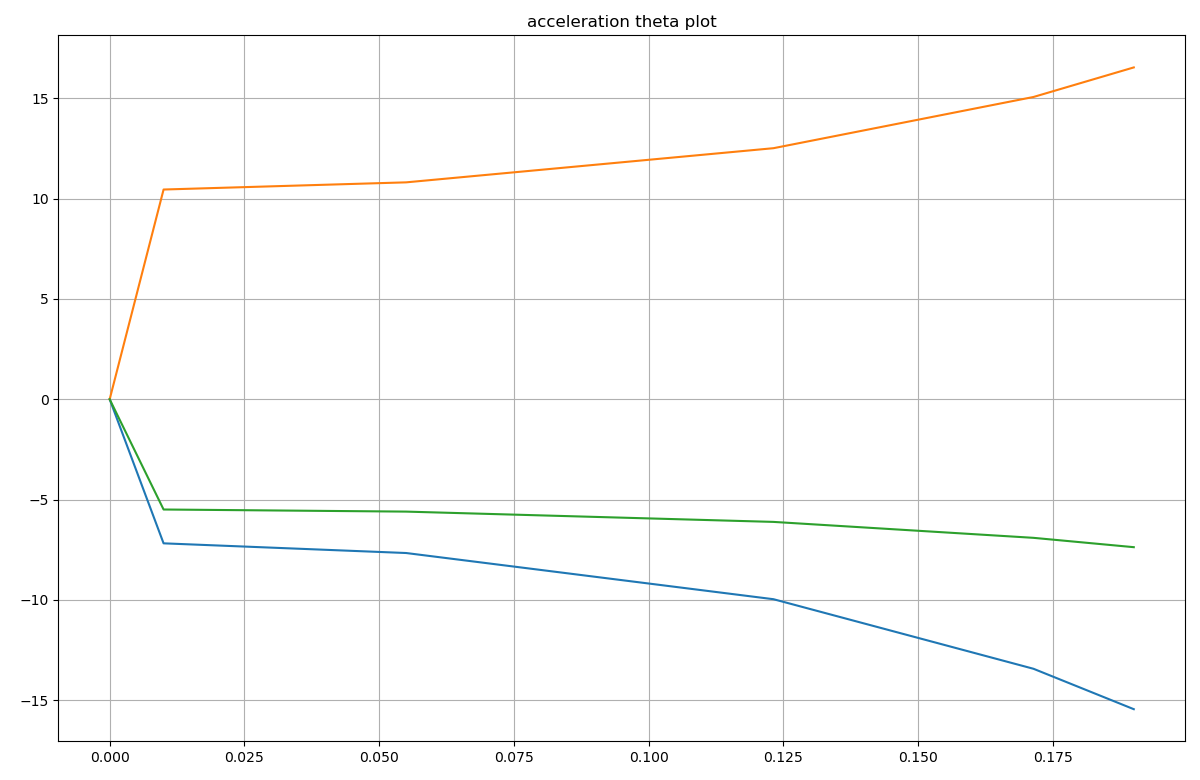
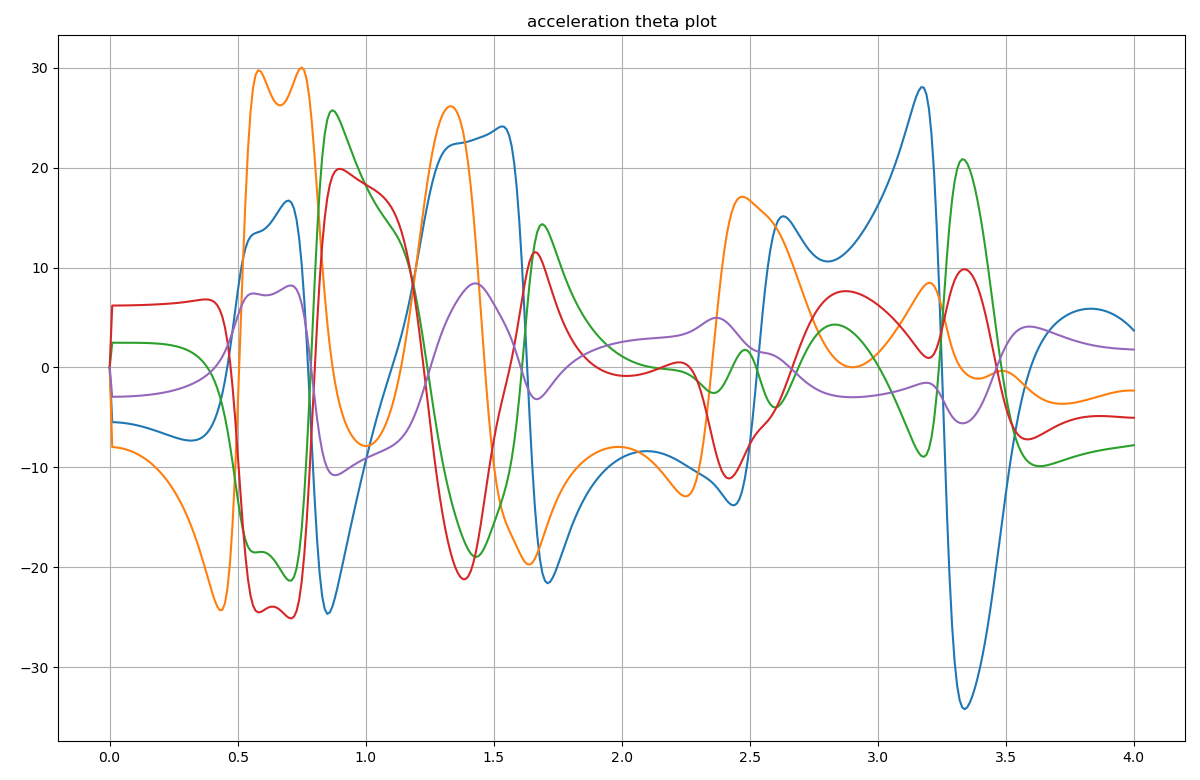
Tree dynamics - seemingly working

diff --git a/src/Tree_forward_dynamics.cpp b/src/Tree_forward_dynamics.cpp
@@ -35,9 +35,7 @@ void SystemOfBodies::EOM__forward_tree(const std::vector<double> &y,
   for (int k = n - 1; k > -1; --k) {
 
     p.body_velocities[k] =
-        spatial_operator_dt[bodies[k]->parent_ID - terminal_bodies]
-                           [get_child_index(k)]
-                               .t() *
+        spatial_operator_dt[bodies[k]->parent_ID - 1][get_child_index(k)].t() *
             p.body_velocities[bodies[k]->parent_ID - 1] +
         bodies[k]->transpose_hinge_map * p.theta_dot[k];
   }
@@ -66,10 +64,9 @@ void SystemOfBodies::EOM__forward_tree(const std::vector<double> &y,
 
   for (int k = n - 1; k > -1; --k) {
 
-    p.accel_plus[k] = spatial_operator_dt[bodies[k]->parent_ID -
-                                          terminal_bodies][get_child_index(k)]
-                          .t() *
-                      p.accel[bodies[k]->parent_ID - 1];
+    p.accel_plus[k] =
+        spatial_operator_dt[bodies[k]->parent_ID - 1][get_child_index(k)].t() *
+        p.accel[bodies[k]->parent_ID - 1];
     p.theta_ddot[k] = p.frac_v[k] - p.G_fractal[k].t() * p.accel_plus[k];
     p.accel[k] = p.accel_plus[k] +
                  bodies[k]->transpose_hinge_map * p.theta_ddot[k] +
@@ -171,18 +168,32 @@ std::vector<std::vector<arma::vec6>>
 SystemOfBodies::find_spatial_operator_input_vector_tree(
     const std::vector<arma::vec> &state) const {
 
-  std::vector<std::vector<arma::vec6>> return_vector(n - terminal_bodies);
+  std::vector<std::vector<arma::vec6>> return_vector(n + 1);
+
+  return_vector[n].resize(1);
+
+  arma::vec6 base =
+      bodies[n - 1]->hinge_map.t() * state[n - 1] + bodies[n - 1]->hinge_pos;
+
+  return_vector[n][0] = base - bodies[n - 1]->out_hinge_tree[0];
 
   // uses the modified theta
-  for (int i = terminal_bodies; i < n; ++i) {
-    size_t num_out = bodies[i]->out_hinge_tree.size();
-    return_vector[i - terminal_bodies].resize(num_out);
+  for (size_t i = n - 1; i > 0; --i) {
 
-    arma::vec6 base =
-        bodies[i]->hinge_map.t() * state[i] + bodies[i]->hinge_pos;
-    for (int j = 0; j < num_out; ++j) {
-      return_vector[i - terminal_bodies][j] =
-          base - bodies[i]->out_hinge_tree[j];
+    if (bodies[i]->children_ID[0] == 0) {
+      continue;
+    }
+    size_t num_out = bodies[i]->children_ID.size();
+    return_vector[i].resize(num_out);
+
+    for (int j = 0; j < bodies[i]->children_ID.size(); ++j) {
+
+      arma::vec6 base = bodies[bodies[i]->children_ID[j] - 1]->hinge_map.t() *
+                            state[bodies[i]->children_ID[j] - 1] +
+                        bodies[bodies[i]->children_ID[j] - 1]->hinge_pos;
+
+      return_vector[bodies[i]->body_ID - 1][j] =
+          base - bodies[i]->out_hinge_tree[0]; // hardcoded a little bit...
     }
   }
   return return_vector;
@@ -194,27 +205,21 @@ SystemOfBodies::find_spatial_operator_tree(
 
   std::vector<std::vector<arma::vec6>> rigid_body_transform_vector =
       find_spatial_operator_input_vector_tree(state);
-  const arma::mat::fixed<6, 6> I = arma::eye(6, 6);
+
   std::vector<std::vector<arma::mat::fixed<6, 6>>> spatial_operator(
-      n + 2 - terminal_bodies);
+      rigid_body_transform_vector.size());
 
-  spatial_operator.resize(n + 2 - terminal_bodies);
-  spatial_operator[0].resize(1);
-  spatial_operator[n + 1 - terminal_bodies].resize(1);
-  spatial_operator[0][0] = I;
-  spatial_operator[n + 1 - terminal_bodies][0] = I;
+  for (int i = 0; i < rigid_body_transform_vector.size(); ++i) {
+    if (rigid_body_transform_vector[i].size() == 0) {
+      continue;
+    }
+    spatial_operator[i].resize(rigid_body_transform_vector[i].size());
 
-  for (int i = 1; i < n + 1 - terminal_bodies; ++i) {
-    const size_t num_out =
-        bodies[i - 1 + terminal_bodies]->out_hinge_tree.size();
-    spatial_operator[i].resize(num_out);
-
-    for (int j = 0; j < num_out; ++j) {
+    for (int j = 0; j < rigid_body_transform_vector[i].size(); ++j) {
       {
-
         spatial_operator[i][j] =
-            rb_transform(rigid_body_transform_vector[i - 1][j].rows(0, 2),
-                         rigid_body_transform_vector[i - 1][j].rows(3, 5));
+            rb_transform(rigid_body_transform_vector[i][j].rows(0, 2),
+                         rigid_body_transform_vector[i][j].rows(3, 5));
       }
     }
   }
@@ -248,17 +253,19 @@ void SystemOfBodies::compute_J_fractal(
         p.P[k] * coriolis_vector(bodies[k]->transpose_hinge_map,
                                  p.body_velocities[k], p.theta_dot[k]) +
         gyroscopic_force_z(bodies[k]->inertial_matrix, p.body_velocities[k]);
+
   } else if (bodies[k]->children_ID.size() == 1) {
     p.J_fractal[k] =
-        spatial_operator_dt[bodies[k]->children_ID[0]][0] *
+        spatial_operator_dt[k][0] *
             p.J_fractal_plus[bodies[k]->children_ID[0]] +
         p.P[k] * coriolis_vector(bodies[k]->transpose_hinge_map,
                                  p.body_velocities[k], p.theta_dot[k]) +
         gyroscopic_force_z(bodies[k]->inertial_matrix, p.body_velocities[k]);
   } else {
+
     p.J_fractal[k] = arma::zeros<arma::vec>(6);
     for (size_t i = 0; i < bodies[k]->children_ID.size(); ++i) {
-      p.J_fractal[k] += spatial_operator_dt[bodies[k]->children_ID[1]][i] *
+      p.J_fractal[k] += spatial_operator_dt[k][i] *
                         p.J_fractal_plus[bodies[k]->children_ID[i]];
     }
     p.J_fractal[k] +=
@@ -276,16 +283,15 @@ void SystemOfBodies::compute_p(
   if (bodies[k]->children_ID[0] == 0) {
     p.P[k] = bodies[k]->inertial_matrix;
   } else if (bodies[k]->children_ID.size() == 1) {
-    p.P[k] = spatial_operator_dt[bodies[k]->children_ID[0]][0] *
-                 p.P_plus[bodies[k]->children_ID[0]] *
-                 spatial_operator_dt[bodies[k]->children_ID[0]][0].t() +
+    p.P[k] = spatial_operator_dt[k][0] * p.P_plus[bodies[k]->children_ID[0]] *
+                 spatial_operator_dt[k][0].t() +
              bodies[k]->inertial_matrix;
   } else {
     p.P[k] = arma::zeros<arma::mat>(6, 6);
     for (int i = 0; i < bodies[k]->children_ID.size(); ++i) {
-      p.P[k] += spatial_operator_dt[bodies[k]->children_ID[1]][i] *
+      p.P[k] += spatial_operator_dt[k][i] *
                 p.P_plus[bodies[k]->children_ID[i]] *
-                spatial_operator_dt[bodies[k]->children_ID[1]][i].t();
+                spatial_operator_dt[k][i].t();
     }
     p.P[k] += bodies[k]->inertial_matrix;
   }

diff --git a/src/system_of_bodies.h b/src/system_of_bodies.h
@@ -17,7 +17,7 @@ class SystemOfBodies {
 public:
   // Simulation attributes
   const double t0{0.0};
-  const double t{0.19};
+  const double t{4};
   const double dt{0.01};
   const float system_gravity{9.81};
   int n{0};
@@ -83,6 +83,7 @@ private:
 
   uint_fast8_t terminal_bodies = 0;
   uint_fast8_t significant_bodies;
+  uint_fast8_t unique_connections{0};
 
 public:
   // Methods
@@ -161,6 +162,8 @@ public:
                          const std::vector<std::vector<arma::mat::fixed<6, 6>>>
                              &spatial_operator_dt) const;
   void count_terminals();
+
+  void count_unique();
 };
 
 #endif // MYPROJECT_SYSTEM_OF_BODIES_H

diff --git a/src/system_of_bodies.cpp b/src/system_of_bodies.cpp
@@ -181,6 +181,16 @@ void SystemOfBodies::set_parent(const int &idx, const int &parent,
   }
 }
 
+void SystemOfBodies::count_unique() {
+
+  for (size_t i = 0; i < bodies.size(); i++) {
+
+    if (bodies[i]->children_ID.size() > 1) {
+      unique_connections += 1;
+    }
+  }
+}
+
 void SystemOfBodies::count_terminals() {
   for (size_t i = 0; i < bodies.size(); i++) {
 

diff --git a/src/tests_utils.cpp b/src/tests_utils.cpp
@@ -181,7 +181,7 @@ void test_tree_dynamics() {
   system.bodies[0]->children_ID[0] = 0;
   system.bodies[1]->children_ID[0] = 0;
 
-  system.count_terminals();
+  system.count_unique();
 
   system.set_stepper_type(false);
   system.solve_forward_dynamics_tree();
